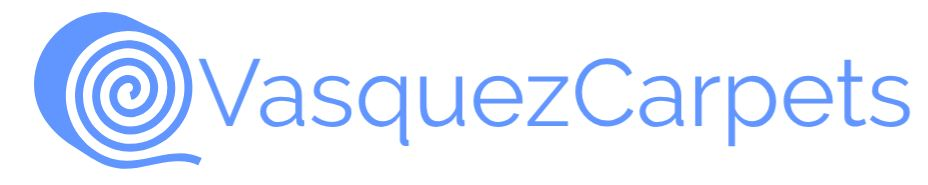
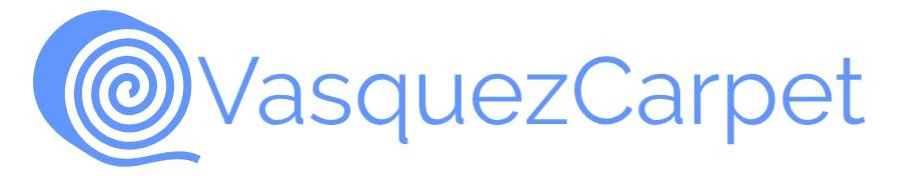
firstcommit

Changed region(s): [[0.0624, 0.0552, 0.9989, 0.9392], [0.0624, 0.0829, 0.0936, 0.1105]]

diff --git a/index.html b/index.html
@@ -7,7 +7,7 @@
 	<meta name="viewport" content="width=device-width, initial-scale=1">
 	<!-- The above 3 meta tags *must* come first in the head; any other head content must come *after* these tags -->
 
-	<title>Vasquez Carpets</title>
+	<title>Vasquez Carpet</title>
 
 	<!-- Google font -->
 	<link href="https://fonts.googleapis.com/css?family=Montserrat:400,700%7CVarela+Round" rel="stylesheet">
@@ -88,8 +88,8 @@
 					<!-- home content -->
 					<div class="col-md-10 col-md-offset-1">
 						<div class="home-content">
-							<h1 class="white-text">Vasquez Carpets</h1>
-							<p class="white-text">Hi there!  We are Vasquez Carpets, with love, we make up this dream!  We LOVE what we do and love helping people turn their home into the masterpiece they have dreamed of!  We would love to work with you!  We are fluent in both English and Spanish to better serve your needs! What are you looking to do around your home today?.
+							<h1 class="white-text">Vasquez Carpet</h1>
+							<p class="white-text">Hi there!  We are Vasquez Carpet, with love, we make up this dream!  We LOVE what we do and love helping people turn their home into the masterpiece they have dreamed of!  We would love to work with you!  We are fluent in both English and Spanish to better serve your needs! What are you looking to do around your home today?.
 							</p>
 							<a href="#portfolio"><button class="main-btn">Learn more</button></a>
 						</div>
@@ -115,7 +115,7 @@
 
 				<!-- Section header -->
 				<div class="section-header text-center">
-					<h2 class="title">Welcome to Vasquez Carpets</h2>
+					<h2 class="title">Welcome to Vasquez Carpet</h2>
 				</div>
 				<!-- /Section header -->
 
@@ -135,7 +135,7 @@
 					<div class="about">
 						<i class="fa fa-magic"></i>
 						<h3>Our Goal</h3>
-						<p>Our overall goal is to provide high-quality carpets jobs and services at competitive prices. Contact one of our knowledgeable staff members and you wont regrets..</p>
+						<p>Our overall goal is to provide high-quality carpet jobs and services at competitive prices. Contact one of our knowledgeable staff members and you wont regrets..</p>
 
 					</div>
 				</div>
@@ -592,7 +592,7 @@
 					<div class="contact">
 						<i class="fa fa-envelope"></i>
 						<h3>Email</h3>
-						<p>MVazquezCarpets@gmail.com</p>
+						<p>MartinVasquez1578@gmail.com</p>
 					</div>
 				</div>
 				<!-- /contact -->
